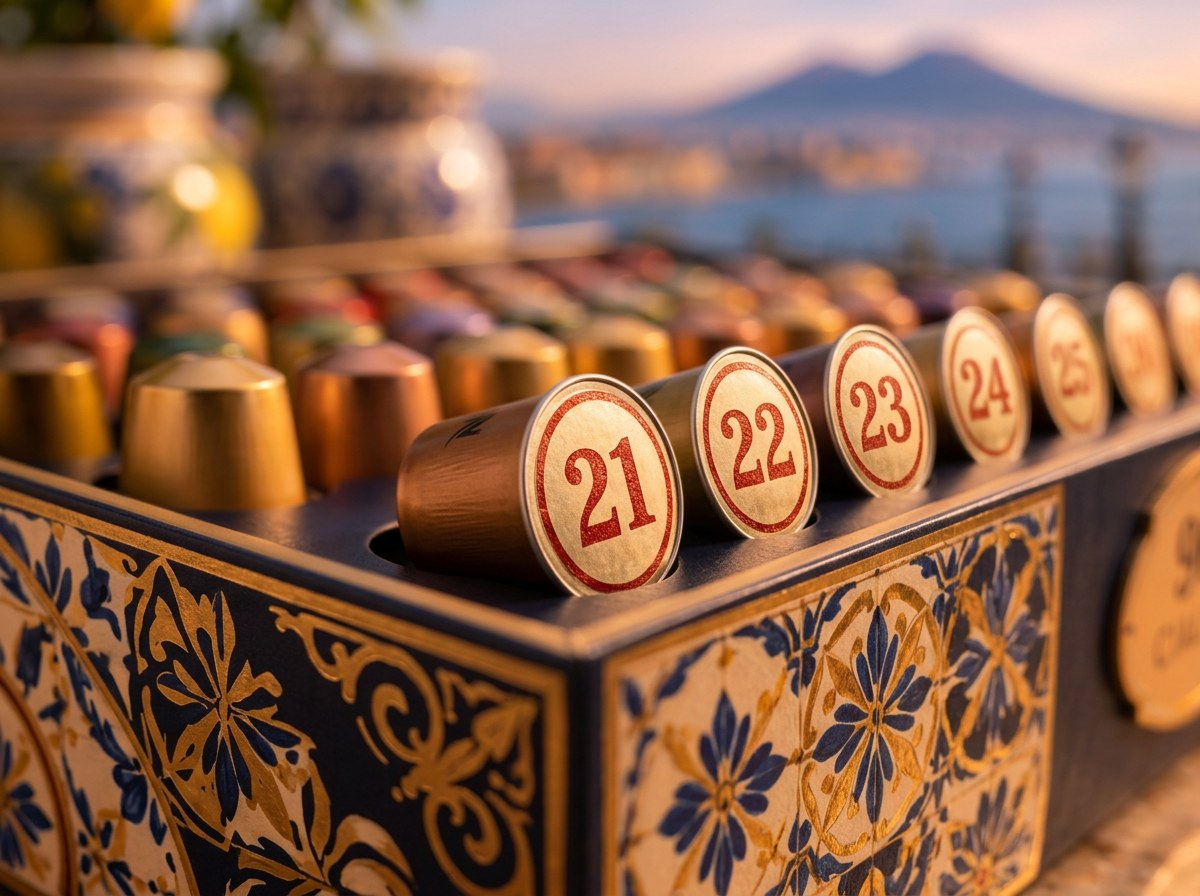
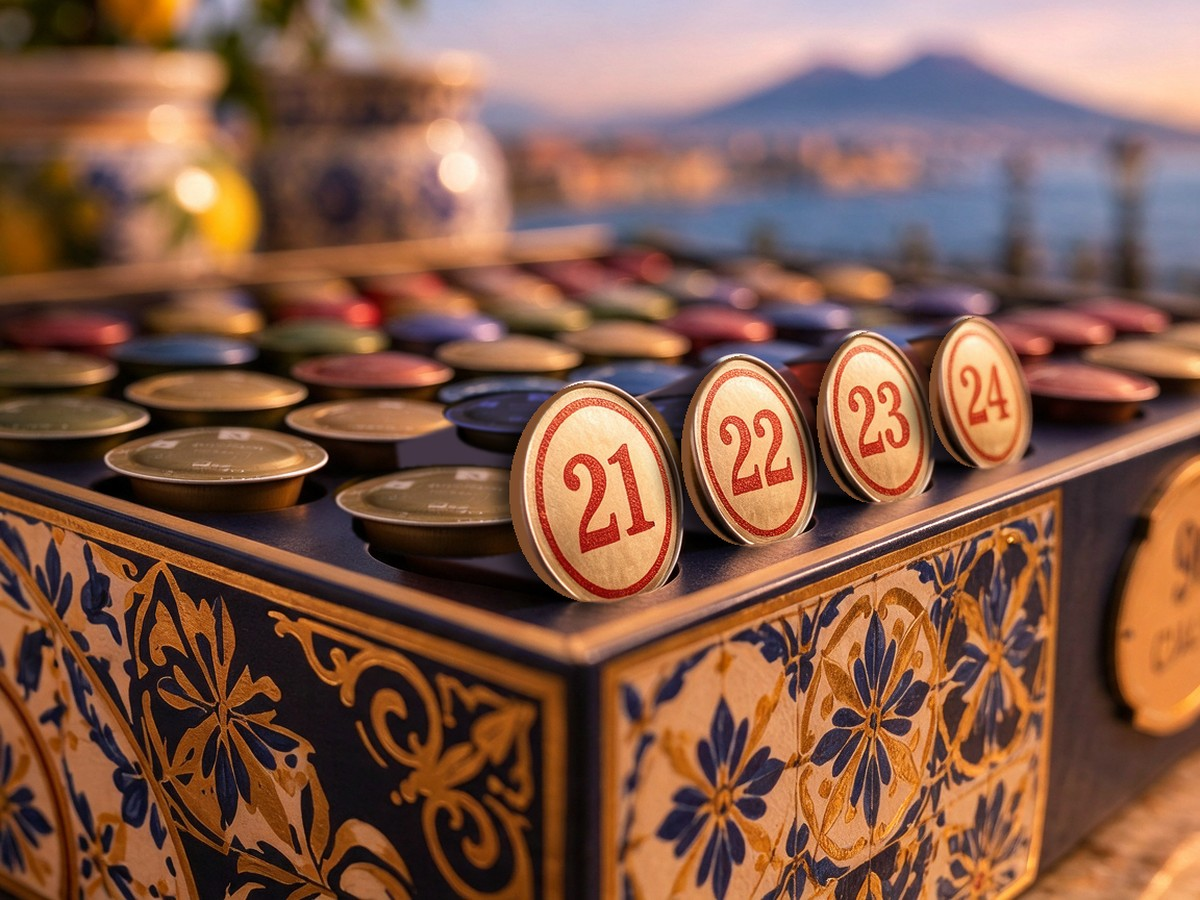
Use Professional pods in merch photos and copy
Replace Original-line capsules with Nespresso Professional pods in the
Caffe sospeso images and switch visible wording to cialde.

diff --git a/app.js b/app.js
@@ -281,8 +281,8 @@ function drawRunway(a, animate) {
   const note = a.orderBy ? `<p class="rw-note">Ordina entro ${fDay(a.orderBy)}, consegna ${fDay(a.arrival)}</p>` : '';
   box.innerHTML = note + rows.map(r => {
     const c = CAP[r.cap], dl = r.daysLeft ?? AXIS_DAYS + 1, over = dl > AXIS_DAYS;
-    return `<div class="rw-row rw-hit" data-tip="${esc(c.name)}: ${int(state.stock[r.cap])} capsule in magazzino, ${int(r.avg)} al giorno. ${r.by ? 'Ordine singolo necessario entro ' + fDay(r.by) + '.' : 'Nessun ordine necessario.'}">
-      <div class="rw-cof"><img src="${c.img}" alt=""><div><b>${esc(c.name)}</b><small>${int(state.stock[r.cap])} capsule, ${int(r.avg)} al giorno</small></div></div>
+    return `<div class="rw-row rw-hit" data-tip="${esc(c.name)}: ${int(state.stock[r.cap])} cialde in magazzino, ${int(r.avg)} al giorno. ${r.by ? 'Ordine singolo necessario entro ' + fDay(r.by) + '.' : 'Nessun ordine necessario.'}">
+      <div class="rw-cof"><img src="${c.img}" alt=""><div><b>${esc(c.name)}</b><small>${int(state.stock[r.cap])} cialde, ${int(r.avg)} al giorno</small></div></div>
       <div class="rw-track"><div class="rw-bar ${over ? 'over' : ''}" data-w="${x(dl) * 100}" style="background:${c.color};width:${animate ? 0 : x(dl) * 100}%"></div></div>
       <div class="rw-end">${r.out ? 'finisce ' + fDay(r.out) : 'oltre 6 mesi'}<small>${r.daysLeft == null ? '' : plural(Math.floor(r.daysLeft), 'giorno', 'giorni')}</small></div>
     </div>`;
@@ -463,7 +463,7 @@ function renderOrders() {
           const c = CAP[l.cap];
           const why = l.extra ? 'Aggiunto da te. Lo terrò d\'occhio dopo la prima consegna.'
             : l.suggested === 0 ? `Non serve: ${l.out ? 'dura fino al ' + fDay(l.out) : 'scorte ampie'}.`
-            : `${int(state.stock[l.cap])} capsule oggi, ${int(l.avg)} al giorno${l.out ? ', finisce ' + fDay(l.out) : ''}. Consigliati ${plural(l.suggested, 'box', 'box')}.`;
+            : `${int(state.stock[l.cap])} cialde oggi, ${int(l.avg)} al giorno${l.out ? ', finisce ' + fDay(l.out) : ''}. Consigliati ${plural(l.suggested, 'box', 'box')}.`;
           return `<article class="line"><img src="${c.img}" alt=""><div><h3>${esc(c.name)}</h3><p>${why}</p></div>
           <div class="step"><button type="button" data-q="${l.cap}" data-d="-1" aria-label="Un box in meno di ${esc(c.name)}">−</button><output>${plural(l.boxes, 'box', 'box')}</output><button type="button" data-q="${l.cap}" data-d="1" aria-label="Un box in più di ${esc(c.name)}">+</button></div>
           <div class="tot">${eur(l.boxes * BOX * c.price)}</div></article>`;
@@ -475,7 +475,7 @@ function renderOrders() {
           <div class="catalog">${notIn.map(c => `<button type="button" data-add="${c.id}"><img src="${c.img}" alt="">${esc(c.name)}<small>${eur(c.price * BOX)} al box</small></button>`).join('')}</div></details>
       </div>
       <aside class="summary"><h3>Il tuo ordine</h3><p class="big">${eur(grand)}</p>
-        <dl><dt>Box da 50 capsule</dt><dd>${a.boxes}</dd><dt>Capsule</dt><dd>${int(a.boxes * BOX)}</dd>${merchLines.map(m => `<dt>${m.name}</dt><dd>${m.qty}</dd>`).join('')}<dt>Spedizioni</dt><dd>1</dd><dt>Se confermi oggi, arriva</dt><dd>${fDay(addWork(t, state.lead))}</dd></dl>
+        <dl><dt>Box da 50 cialde</dt><dd>${a.boxes}</dd><dt>Cialde</dt><dd>${int(a.boxes * BOX)}</dd>${merchLines.map(m => `<dt>${m.name}</dt><dd>${m.qty}</dd>`).join('')}<dt>Spedizioni</dt><dd>1</dd><dt>Se confermi oggi, arriva</dt><dd>${fDay(addWork(t, state.lead))}</dd></dl>
         <button class="btn primary" id="confirm" type="button" ${a.boxes || merch ? '' : 'disabled'}>Conferma ordine</button>
         <small>Prezzi di listino dal sito Nespresso Professional. Demo: l'ordine resta in questa pagina.</small></aside>
     </div></section>
@@ -507,20 +507,20 @@ function renderOrders() {
 }
 
 // ## Pagina Caffe' sospeso: il merch per Napoli
-// Il prezzo e' una stima: parte dal listino reale delle capsule e somma costi ipotizzati.
+// Il prezzo e' una stima: parte dal listino reale delle cialde e somma costi ipotizzati.
 const MERCH = {
   xbox: {
     name: 'Christmas box', img: 'assets/merch/box-tavolo.jpg', price: 89,
     views: [
-      { src: 'assets/merch/box-tavolo.jpg', label: 'In sala', alt: 'Cofanetto aperto con capsule numerate e cartellone su un tavolo in marmo, in un hotel di Napoli a Natale' },
+      { src: 'assets/merch/box-tavolo.jpg', label: 'In sala', alt: 'Cofanetto aperto con 90 cialde numerate e cartellone su un tavolo in marmo, in un hotel di Napoli a Natale' },
       { src: 'assets/merch/box-chiusa.jpg', label: 'Chiusa', alt: 'Cofanetto chiuso in blu, oro e maiolica, su sfondo nero' },
-      { src: 'assets/merch/box-dettaglio.jpg', label: 'Le capsule', alt: 'Primo piano delle capsule con i numeri della tombola 21, 22, 23 e 24' },
+      { src: 'assets/merch/box-dettaglio.jpg', label: 'Le cialde', alt: 'Primo piano delle cialde con i numeri della tombola 21, 22, 23 e 24' },
     ],
-    text: 'La tombola di Natale, in capsule: 90 cialde personalizzate con i numeri da 1 a 90 e il cartellone per giocare.',
+    text: 'La tombola di Natale, in cialde: una per ogni numero da 1 a 90, con il cartellone per giocare.',
     has: ['90 cialde numerate', 'Cartellone della tombola'],
     build: [
-      ['90 capsule, al listino dei caffè di origine (0,62 € l\'una)', 56],
-      ['Numero da 1 a 90 stampato su ogni capsula (0,10 € l\'una)', 9],
+      ['90 cialde, al listino dei caffè di origine (0,62 € l\'una)', 56],
+      ['Numero da 1 a 90 stampato su ogni cialda (0,10 € l\'una)', 9],
       ['Cofanetto decorato e cartellone della tombola', 14],
       ['Margine edizione speciale', 10],
     ],
@@ -529,13 +529,13 @@ const MERCH = {
     name: 'Il curniciello', img: 'assets/merch/cur-studio.jpg', price: 24,
     views: [
       { src: 'assets/merch/cur-studio.jpg', label: 'Chiuso', alt: 'Cornetto rosso con decori in maiolica, fiocco ed etichetta Il curniciello, su sfondo nero' },
-      { src: 'assets/merch/cur-aperto.jpg', label: 'Aperto', alt: 'Cornetto aperto visto dall\'alto su marmo bianco, con capsule oro e blu e nastro rosso' },
-      { src: 'assets/merch/cur-dettaglio.jpg', label: 'Con le capsule', alt: 'Primo piano del cornetto rosso pieno di capsule oro e blu' },
+      { src: 'assets/merch/cur-aperto.jpg', label: 'Aperto', alt: 'Cornetto aperto visto dall\'alto su marmo bianco, con dieci cialde colorate e nastro rosso' },
+      { src: 'assets/merch/cur-dettaglio.jpg', label: 'Con le cialde', alt: 'Primo piano del cornetto rosso pieno di cialde oro e blu' },
     ],
-    text: 'Il cornetto portafortuna di Napoli, rosso e decorato a maiolica, con dentro le capsule. Per tradizione porta fortuna solo se è regalato.',
-    has: ['10 capsule assortite', 'Contenitore a forma di cornetto, con fiocco'],
+    text: 'Il cornetto portafortuna di Napoli, rosso e decorato a maiolica, con dentro le cialde. Per tradizione porta fortuna solo se è regalato.',
+    has: ['10 cialde assortite', 'Contenitore a forma di cornetto, con fiocco'],
     build: [
-      ['10 capsule, al listino dei caffè di origine (0,62 € l\'una)', 6],
+      ['10 cialde, al listino dei caffè di origine (0,62 € l\'una)', 6],
       ['Contenitore decorato a forma di cornetto, con fiocco', 12],
       ['Margine edizione speciale', 6],
     ],
@@ -577,10 +577,10 @@ function renderSospeso() {
     <section class="sec">${merchProduct('xbox')}</section>
     <section class="sec soft"><div class="merch-2">
       <div><h2 class="title">Il cartellone</h2>
-        <p class="sub" style="margin-top:6px">Ogni capsula porta un numero. Ne estrai una, la prepari e segni il numero sul cartellone.</p>
+        <p class="sub" style="margin-top:6px">Ogni cialda porta un numero. Ne estrai una, la prepari e segni il numero sul cartellone.</p>
         <div class="board" role="img" aria-label="Cartellone della tombola con i numeri da 1 a 90">${nums.map(n => `<span>${n}</span>`).join('')}</div></div>
       <div><h2 class="title">Come nasce il prezzo</h2>
-        <p class="sub" style="margin-top:6px">Il listino delle capsule è reale. Le altre voci sono ipotesi da verificare con Nespresso.</p>
+        <p class="sub" style="margin-top:6px">Il listino delle cialde è reale. Le altre voci sono ipotesi da verificare con Nespresso.</p>
         ${priceTable('xbox')}</div>
     </div></section>
     <section class="sec">${merchProduct('curniciello', true)}</section>
@@ -588,7 +588,7 @@ function renderSospeso() {
       <div><h2 class="title">Un portafortuna da regalare</h2>
         <p class="sub" style="margin-top:6px">A Napoli il cornetto non si compra per sé: si riceve in dono. Per questo è pensato per i tuoi ospiti e i tuoi clienti migliori.</p></div>
       <div><h2 class="title">Come nasce il prezzo</h2>
-        <p class="sub" style="margin-top:6px">Il listino delle capsule è reale. Numero di capsule e altre voci sono ipotesi da verificare con Nespresso.</p>
+        <p class="sub" style="margin-top:6px">Il listino delle cialde è reale. Numero di cialde e altre voci sono ipotesi da verificare con Nespresso.</p>
         ${priceTable('curniciello')}</div>
     </div></section>`;
   // Miniature: cambiano solo l'immagine grande, senza ridisegnare la pagina.
@@ -646,7 +646,7 @@ function renderEvents() {
 }
 
 // ## Far passare il tempo nella demo
-// Ogni giorno: si consumano capsule secondo la previsione e arrivano gli ordini attesi.
+// Ogni giorno: si consumano cialde secondo la previsione e arrivano gli ordini attesi.
 function advance(n) {
   const r = rng(state.offset * 97 + 13);
   for (let k = 0; k < n; k++) {
@@ -746,12 +746,12 @@ function answer(text) {
     const r = a.rows.find(x => x.cap === named.id);
     if (!r) return `${esc(named.name)} non è ancora nelle tue scorte. Puoi aggiungerlo dalla pagina <a class="link" href="#ordini">Ordini</a>.`;
     if (!state.stock[named.id]) return `${esc(named.name)} è finito. Ti conviene ordinarlo oggi. <a class="link" href="#ordini">Apri l'ordine</a>`;
-    return `Hai ${int(state.stock[named.id])} capsule di ${esc(named.name)} e ne usi ${int(r.avg)} al giorno. ${r.out ? `Finiscono ${fLong(r.out)}, cioè tra ${plural(Math.floor(r.daysLeft), 'giorno', 'giorni')}.` : 'Ti bastano per oltre 6 mesi.'}`;
+    return `Hai ${int(state.stock[named.id])} cialde di ${esc(named.name)} e ne usi ${int(r.avg)} al giorno. ${r.out ? `Finiscono ${fLong(r.out)}, cioè tra ${plural(Math.floor(r.daysLeft), 'giorno', 'giorni')}.` : 'Ti bastano per oltre 6 mesi.'}`;
   }
   if (/perch|data|quando/.test(q)) {
     if (!a.first) return 'Nessuna data per ora: non serve ordinare.';
     const c = CAP[a.first.cap];
-    return `${esc(c.name)} è il caffè più urgente: ${int(state.stock[a.first.cap])} capsule per ${int(a.first.avg)} al giorno, quindi finisce ${fLong(a.first.out)}. Tolgo ${plural(state.safety, 'giorno', 'giorni')} di margine e ${plural(state.lead, 'giorno lavorativo', 'giorni lavorativi')} di consegna: l'ultimo giorno utile è ${fLong(a.first.by)}.${a.late ? ' È già passato, quindi meglio ordinare oggi.' : ''}`;
+    return `${esc(c.name)} è il caffè più urgente: ${int(state.stock[a.first.cap])} cialde per ${int(a.first.avg)} al giorno, quindi finisce ${fLong(a.first.out)}. Tolgo ${plural(state.safety, 'giorno', 'giorni')} di margine e ${plural(state.lead, 'giorno lavorativo', 'giorni lavorativi')} di consegna: l'ultimo giorno utile è ${fLong(a.first.by)}.${a.late ? ' È già passato, quindi meglio ordinare oggi.' : ''}`;
   }
   if (/spedizion|risparm|logistic|consegn/.test(q)) {
     const last = state.orders.filter(o => diffDays(t, o.date) <= 30 && diffDays(t, o.date) >= 0).length;

diff --git a/styles.css b/styles.css
@@ -33,7 +33,7 @@ main { min-height: calc(100dvh - 190px); }
 .btn-assist { background: none; border: 1px solid var(--gold-on-black); color: var(--white); border-radius: 99px; padding: 7px 18px; white-space: nowrap; flex: none; }
 .btn-assist:hover { background: var(--gold); border-color: var(--gold); }
 
-/* ## Hero: la frase dell'AI e la capsula gigante */
+/* ## Hero: la frase dell'AI e la cialda gigante */
 .hero { background: var(--black); color: var(--white); position: relative; overflow: hidden; padding: clamp(40px, 7vw, 92px) var(--gut) clamp(44px, 6vw, 80px); min-height: 440px; }
 .hero-inner { position: relative; z-index: 1; max-width: 700px; }
 .hero .who { color: #bdbdbd; font-weight: 300; margin-bottom: 26px; }
@@ -315,7 +315,7 @@ tr.sum td { font-weight: 500; border-bottom: 0; font-size: 19px; }
   /* Tocchi piu' comodi */
   .link { display: inline-block; padding: 6px 0; }
   input[type=range] { height: 32px; }
-  /* Pulsante caffe': solo capsula, per non coprire il contenuto */
+  /* Pulsante caffe': solo cialda, per non coprire il contenuto */
   .cof-open { right: 14px; bottom: 62px; padding: 5px; }
   .cof-open img { width: 42px; height: 42px; }
   .cof-label { position: absolute; width: 1px; height: 1px; overflow: hidden; clip-path: inset(50%); }

diff --git a/data.js b/data.js
@@ -1,5 +1,5 @@
 // ## Catalogo reale
-// Nomi, prezzi a capsula, intensita e immagini letti da nespresso.com/pro/it/it il 5/11/2026.
+// Nomi, prezzi a cialda, intensita e immagini letti da nespresso.com/pro/it/it il 5/11/2026.
 const CATALOG = {
  "capsules": [
   {
